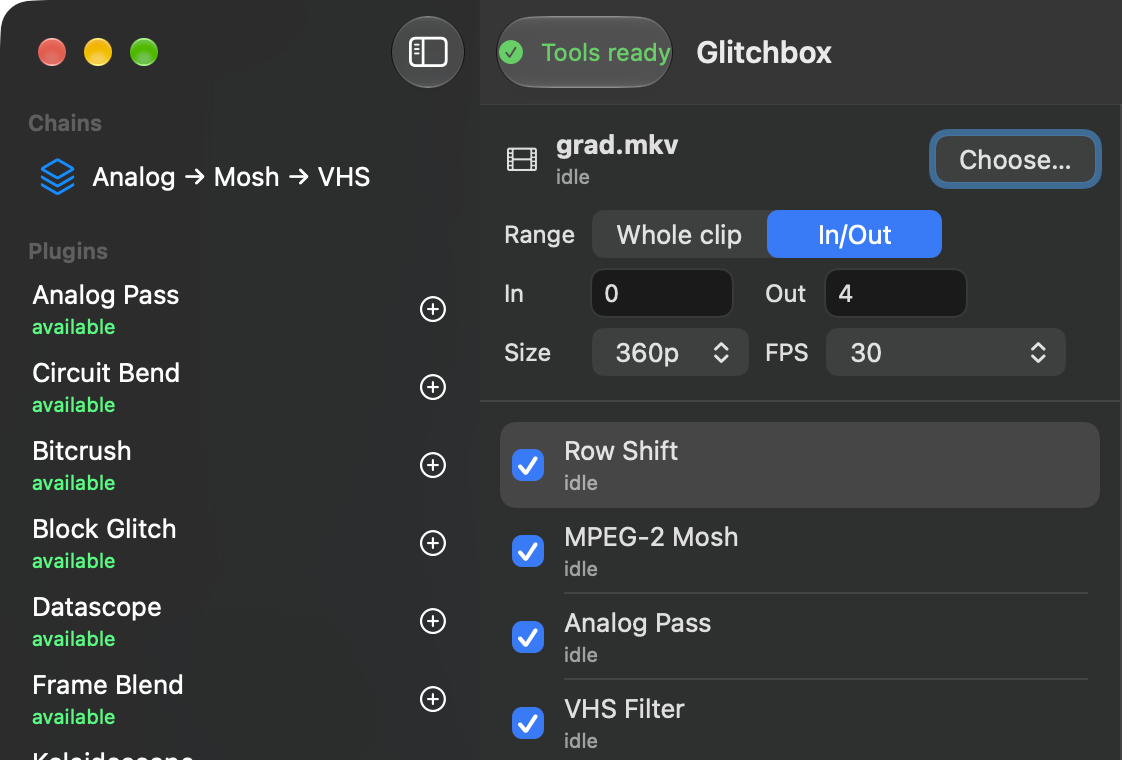
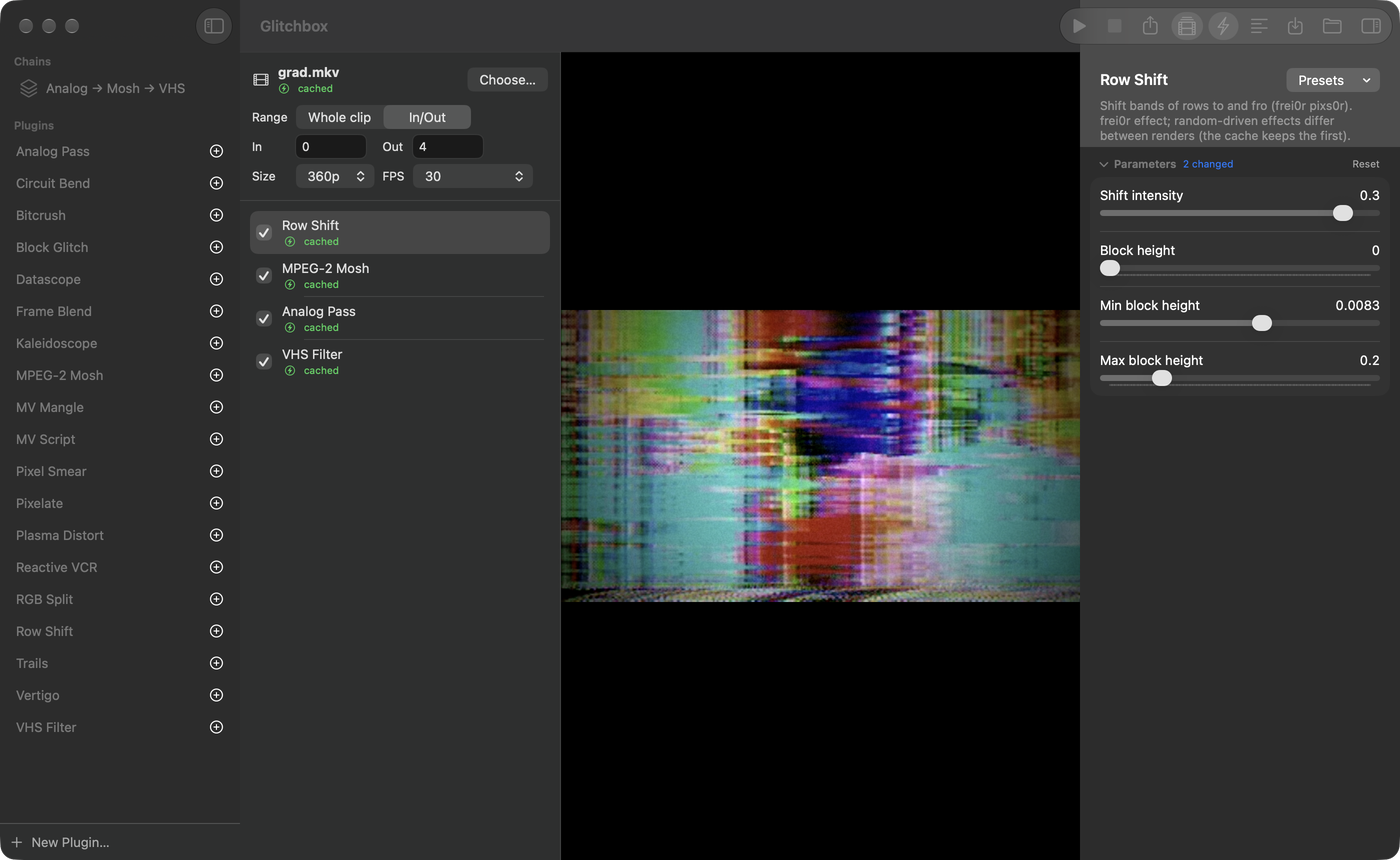
app: declutter (status only on failure, no 'available' labels, log panel behind a toggle), readable inspector, auto-render persists and renders on launch; site: full-width rendered app screenshot

diff --git a/app/Glitchbox/Views/ParamControl.swift b/app/Glitchbox/Views/ParamControl.swift
@@ -45,29 +45,46 @@ struct ParamControl: View {
         onChange(spec.clamp(isInt ? .int(Int(d.rounded())) : .float(d)))
     }
 
+    /// Ranged numbers: label and value on one line, a full-width slider under them.
+    /// Open-ended numbers: a field (and stepper for ints) beside the label.
     @ViewBuilder private func numericControl(isInt: Bool) -> some View {
-        LabeledContent(spec.label) {
-            HStack {
-                if let lo = spec.min, let hi = spec.max, lo < hi {
-                    slider(lo: lo, hi: hi, isInt: isInt)
+        if let lo = spec.min, let hi = spec.max, lo < hi {
+            VStack(alignment: .leading, spacing: 2) {
+                HStack {
+                    Text(spec.label)
+                    Spacer()
+                    numberField(isInt: isInt)
                 }
-                if isInt {
-                    TextField(spec.label, value: Binding(get: { Int(number) }, set: { set(Double($0), isInt: true) }),
-                              format: .number.grouping(.never))
-                        .labelsHidden()
-                        .frame(width: 80)
-                    if spec.min == nil || spec.max == nil {
+                slider(lo: lo, hi: hi, isInt: isInt)
+                    .labelsHidden()
+            }
+        } else {
+            LabeledContent(spec.label) {
+                HStack {
+                    numberField(isInt: isInt)
+                    if isInt {
                         Stepper(spec.label, value: Binding(get: { Int(number) }, set: { set(Double($0), isInt: true) }))
                             .labelsHidden()
                     }
-                } else {
-                    TextField(spec.label, value: Binding(get: { number }, set: { set($0, isInt: false) }),
-                              format: .number.precision(.significantDigits(1...6)))
-                        .labelsHidden()
-                        .frame(width: 80)
                 }
             }
         }
+    }
+
+    @ViewBuilder private func numberField(isInt: Bool) -> some View {
+        Group {
+            if isInt {
+                TextField(spec.label, value: Binding(get: { Int(number) }, set: { set(Double($0), isInt: true) }),
+                          format: .number.grouping(.never))
+            } else {
+                TextField(spec.label, value: Binding(get: { number }, set: { set($0, isInt: false) }),
+                          format: .number.precision(.significantDigits(1...6)))
+            }
+        }
+        .labelsHidden()
+        .multilineTextAlignment(.trailing)
+        .monospacedDigit()
+        .frame(width: 80)
     }
 
     @ViewBuilder private func slider(lo: Double, hi: Double, isInt: Bool) -> some View {

diff --git a/app/Glitchbox/Views/LayerInspector.swift b/app/Glitchbox/Views/LayerInspector.swift
@@ -11,15 +11,6 @@ struct LayerInspector: View {
             if let plugin = model.plugin(item.spec.plugin) {
                 let groups = ParamGroup.groups(of: plugin)
                 Form {
-                    Section {
-                        VStack(alignment: .leading, spacing: 4) {
-                            Text(plugin.name).font(.title3.bold())
-                            if !plugin.summary.isEmpty {
-                                Text(plugin.summary).font(.callout).foregroundStyle(.secondary)
-                            }
-                        }
-                        PluginPresetMenu(item: item, plugin: plugin)
-                    }
                     if case .unavailable(let why) = item.status {
                         Section { Label(why, systemImage: "exclamationmark.triangle").foregroundStyle(.orange) }
                     }
@@ -32,6 +23,9 @@ struct LayerInspector: View {
                     }
                 }
                 .formStyle(.grouped)
+                // The Form stays the inspector's root: wrapped in a stack, macOS 27's split view
+                // takes its full content height and shifts every column off-screen.
+                .safeAreaInset(edge: .top, spacing: 0) { header(plugin: plugin, item: item) }
             } else {
                 ContentUnavailableView("Missing Plugin", systemImage: "puzzlepiece.extension",
                                        description: Text("No valid plugin '\(item.spec.plugin)' in plugins/."))
@@ -39,6 +33,27 @@ struct LayerInspector: View {
         } else {
             ContentUnavailableView("No Layer Selected", systemImage: "slider.horizontal.3")
         }
+    }
+
+    /// Plugin name and Presets menu, with the summary underneath.
+    private func header(plugin: PluginManifest, item: LayerItem) -> some View {
+        VStack(alignment: .leading, spacing: 6) {
+            HStack(alignment: .firstTextBaseline) {
+                Text(plugin.name).font(.title3.bold())
+                Spacer()
+                PluginPresetMenu(item: item, plugin: plugin)
+            }
+            if !plugin.summary.isEmpty {
+                Text(plugin.summary)
+                    .font(.callout)
+                    .foregroundStyle(.secondary)
+            }
+        }
+        .frame(maxWidth: .infinity, alignment: .leading)
+        .padding(.horizontal, 20)
+        .padding(.top, 16)
+        .padding(.bottom, 4)
+        .background(.background)
     }
 
     /// Plugins with many sections start with only the first one open.

diff --git a/app/GlitchboxKit/Sources/GlitchboxKit/Model/SessionState.swift b/app/GlitchboxKit/Sources/GlitchboxKit/Model/SessionState.swift
@@ -1,4 +1,5 @@
-/// `<user library>/session.json`: the app's last source, render controls, and stack.
+/// `<user library>/session.json`: the app's last source, render controls, stack, and
+/// whether auto-render was on.
 ///
 /// Schema 1 stored a Preview/Full `mode` plus `previewSettings`; decoding migrates it:
 /// preview becomes an in/out range at the preview height, full becomes the whole clip at
@@ -10,14 +11,16 @@ public struct SessionState: Codable, Sendable {
     public var source: String?
     public var render: RenderOptions
     public var layers: [LayerSpec]
+    /// Absent in older sessions, which read as off.
+    public var autoRender: Bool
 
-    public init(source: String?, render: RenderOptions, layers: [LayerSpec]) {
+    public init(source: String?, render: RenderOptions, layers: [LayerSpec], autoRender: Bool = false) {
         schema = Self.schemaVersion
-        self.source = source; self.render = render; self.layers = layers
+        self.source = source; self.render = render; self.layers = layers; self.autoRender = autoRender
     }
 
     private enum CodingKeys: String, CodingKey {
-        case schema, source, render, layers
+        case schema, source, render, layers, autoRender
         case mode, previewSettings
     }
 
@@ -34,6 +37,7 @@ public struct SessionState: Codable, Sendable {
         let c = try decoder.container(keyedBy: CodingKeys.self)
         source = try c.decodeIfPresent(String.self, forKey: .source)
         layers = try c.decode([LayerSpec].self, forKey: .layers)
+        autoRender = try c.decodeIfPresent(Bool.self, forKey: .autoRender) ?? false
         schema = Self.schemaVersion
         if let render = try c.decodeIfPresent(RenderOptions.self, forKey: .render) {
             self.render = render
@@ -55,5 +59,6 @@ public struct SessionState: Codable, Sendable {
         try c.encodeIfPresent(source, forKey: .source)
         try c.encode(render, forKey: .render)
         try c.encode(layers, forKey: .layers)
+        try c.encode(autoRender, forKey: .autoRender)
     }
 }

diff --git a/site/assets/site.css b/site/assets/site.css
@@ -200,13 +200,7 @@ h3 {
 
 /* How a chain works */
 
-#chains {
-  display: grid;
-  grid-template-columns: minmax(0, 6fr) minmax(0, 5fr);
-  gap: 0 clamp(2rem, 5vw, 5rem);
-  align-items: start;
-}
-#chains h2 { grid-column: 1 / -1; }
+#chains { display: grid; grid-template-columns: minmax(0, 1fr); }
 .chains-text { max-width: 38rem; color: var(--ash); }
 .chains-text p:first-child { color: var(--bone); }
 
@@ -225,8 +219,8 @@ h3 {
 .layer-note { color: var(--ash); padding-inline: 0.25rem; }
 .layer-strip > figcaption { margin-top: 1rem; color: var(--ash); font-size: 0.9375rem; }
 
-.app-shot { margin: 0; grid-column: 2; grid-row: 2; }
-.app-shot img { border-radius: 10px 0 0 0; box-shadow: 0 1.2rem 2.5rem rgb(5 8 41 / 0.45); }
+.app-shot { margin: clamp(2.5rem, 5vw, 4rem) 0 0; }
+.app-shot img { filter: drop-shadow(0 1.2rem 2.5rem rgb(5 8 41 / 0.45)); }
 .app-shot figcaption { margin-top: 0.75rem; color: var(--ash); font-size: 0.9375rem; }
 
 /* Demo reel */
@@ -305,8 +299,7 @@ pre .c { color: var(--ash); }
 
 @media (max-width: 900px) {
   .hero { grid-template-columns: minmax(0, 1fr); }
-  #chains { grid-template-columns: minmax(0, 1fr); }
-  .app-shot { grid-column: 1; grid-row: auto; margin-top: 2.5rem; max-width: 36rem; }
+  .app-shot img { filter: drop-shadow(0 0.6rem 1.25rem rgb(5 8 41 / 0.45)); }
   .layer-strip ol { grid-template-columns: repeat(3, minmax(0, 1fr)); row-gap: 1.25rem; }
 }
 

diff --git a/app/Glitchbox/Views/MainView.swift b/app/Glitchbox/Views/MainView.swift
@@ -6,6 +6,7 @@ struct MainView: View {
     @Environment(\.openWindow) private var openWindow
     @State private var showInspector = true
     @State private var savingChain = false
+    @AppStorage(LogPanel.visibleKey) private var showLog = false
 
     var body: some View {
         @Bindable var model = model
@@ -51,8 +52,10 @@ struct MainView: View {
     @ToolbarContentBuilder
     private var toolbar: some ToolbarContent {
         @Bindable var model = model
-        ToolbarItemGroup(placement: .navigation) {
-            EnvStatusView()
+        if model.environment == nil {
+            ToolbarItem(placement: .navigation) {
+                EnvStatusView()
+            }
         }
         ToolbarItemGroup(placement: .primaryAction) {
             Button("Render", systemImage: "play.fill") { model.render() }
@@ -74,6 +77,8 @@ struct MainView: View {
                 .help("Play the final output instead of the selected layer")
             Toggle("Auto-render", systemImage: "bolt", isOn: $model.autoRender)
                 .help("Re-render automatically after edits")
+            Toggle("Log", systemImage: "text.alignleft", isOn: $showLog)
+                .help("Show the render log under the player")
             Button("Save Chain", systemImage: "square.and.arrow.down") { savingChain = true }
                 .keyboardShortcut("s")
                 .disabled(model.stack.isEmpty)

diff --git a/app/Glitchbox/Model/StudioModel.swift b/app/Glitchbox/Model/StudioModel.swift
@@ -25,7 +25,7 @@ final class StudioModel {
     private(set) var stack: [LayerItem] = []
     var selection: LayerItem.ID? { didSet { if selection != oldValue { selectionChanged() } } }
     var viewFinal = true { didSet { if viewFinal != oldValue { updatePlayer() } } }
-    var autoRender = false
+    var autoRender = false { didSet { if autoRender != oldValue { scheduleSave() } } }
     var notices: [String] = []
 
     private(set) var sourceStatus: LayerStatus = .idle
@@ -625,7 +625,7 @@ final class StudioModel {
     }
 
     func saveSession() {
-        let state = SessionState(source: source?.path, render: renderOptions, layers: stack.map(\.spec))
+        let state = SessionState(source: source?.path, render: renderOptions, layers: stack.map(\.spec), autoRender: autoRender)
         do { try Workspace.write(state, to: sessionURL) } catch { notices.append("session: \(error.localizedDescription)") }
     }
 
@@ -637,5 +637,8 @@ final class StudioModel {
         stack = state.layers.map { LayerItem(spec: $0, status: baseStatus($0)) }
         selection = stack.first?.id
         reresolveStack()
+        autoRender = state.autoRender
+        // With auto-render on, reopening shows the last result (a cache hit when it's still cached).
+        if autoRender, canRender, !stack.isEmpty { render() }
     }
 }

diff --git a/app/GlitchboxKit/Tests/GlitchboxKitTests/SessionStateTests.swift b/app/GlitchboxKit/Tests/GlitchboxKitTests/SessionStateTests.swift
@@ -39,7 +39,7 @@ struct SessionStateTests {
 
     @Test func roundTripsAsSchema2() throws {
         let original = SessionState(source: nil, render: RenderOptions(range: .whole, fps: .fps29_97),
-                                    layers: [LayerSpec(plugin: "x", enabled: true, params: [:])])
+                                    layers: [LayerSpec(plugin: "x", enabled: true, params: [:])], autoRender: true)
         let json = String(decoding: try Workspace.encoder().encode(original), as: UTF8.self)
         #expect(json.contains("\"schema\" : 2"))
         #expect(json.contains("\"30000/1001\""))
@@ -47,6 +47,11 @@ struct SessionStateTests {
         let back = try decode(json)
         #expect(back.render == original.render)
         #expect(back.layers == original.layers)
+        #expect(back.autoRender)
+    }
+
+    @Test func sessionsWithoutAutoRenderReadAsOff() throws {
+        #expect(try !decode(#"{"schema":2,"render":{"range":"whole","inPoint":0,"stillDuration":5},"layers":[]}"#).autoRender)
     }
 
     @Test func stillsIgnoreTheRange() {

diff --git a/app/Glitchbox/Views/LibrarySidebar.swift b/app/Glitchbox/Views/LibrarySidebar.swift
@@ -45,11 +45,15 @@ struct LibrarySidebar: View {
                 }
             }
         }
-        .safeAreaInset(edge: .bottom) {
-            Button("New Plugin…", systemImage: "plus") { model.showNewPlugin = true }
-                .buttonStyle(.borderless)
-                .frame(maxWidth: .infinity, alignment: .leading)
-                .padding(10)
+        .safeAreaInset(edge: .bottom, spacing: 0) {
+            VStack(spacing: 0) {
+                Divider()
+                Button("New Plugin…", systemImage: "plus") { model.showNewPlugin = true }
+                    .buttonStyle(.borderless)
+                    .frame(maxWidth: .infinity, alignment: .leading)
+                    .padding(10)
+            }
+            .background(.bar)
         }
         .confirmationDialog("Replace current stack?", isPresented: Binding(get: { pendingChain != nil }, set: { if !$0 { pendingChain = nil } }),
                             presenting: pendingChain) { preset in

diff --git a/app/Glitchbox/Views/PluginLibraryRow.swift b/app/Glitchbox/Views/PluginLibraryRow.swift
@@ -10,7 +10,7 @@ struct PluginLibraryRow: View {
         HStack {
             VStack(alignment: .leading, spacing: 2) {
                 Text(plugin.name)
-                availability
+                unavailability
             }
             Spacer()
             Button("Add Layer", systemImage: "plus.circle") { model.addLayer(plugin: plugin.id) }
@@ -25,11 +25,10 @@ struct PluginLibraryRow: View {
         }
     }
 
-    @ViewBuilder private var availability: some View {
+    /// Shown only when the plugin can't run.
+    @ViewBuilder private var unavailability: some View {
         if let missing = model.missingTools(plugin) {
-            if missing.isEmpty {
-                Text("available").font(.caption).foregroundStyle(.green)
-            } else {
+            if !missing.isEmpty {
                 Text("missing: \(missing.joined(separator: ", "))").font(.caption).foregroundStyle(.orange)
             }
         } else {

diff --git a/site/index.html b/site/index.html
@@ -106,8 +106,8 @@
   </figure>
 
   <figure class="app-shot">
-    <img src="assets/app/glitchbox-stack.png" width="1122" height="760" alt="The Glitchbox window: a plugin library on the left, and a source clip with Row Shift, MPEG-2 Mosh, Analog Pass, and VHS Filter stacked in the layer list." loading="lazy">
-    <figcaption>The same stack in the app, before rendering.</figcaption>
+    <img src="assets/app/glitchbox-stack.png" width="1400" height="860" alt="The Glitchbox window: the plugin library on the left, the source clip with Row Shift, MPEG-2 Mosh, Analog Pass, and VHS Filter stacked and rendered, the moshed result playing in the viewer, and Row Shift's parameters in the inspector." loading="lazy">
+    <figcaption>The same stack in the app, rendered.</figcaption>
   </figure>
 </section>
 

diff --git a/app/Glitchbox/Views/EnvStatusView.swift b/app/Glitchbox/Views/EnvStatusView.swift
@@ -1,16 +1,13 @@
 import SwiftUI
 
+/// Toolbar status shown only when the bundled toolchain can't be loaded.
 struct EnvStatusView: View {
     @Environment(StudioModel.self) private var model
 
     var body: some View {
         switch model.envState {
-        case .ready(let env):
-            Label("Tools ready", systemImage: "checkmark.circle.fill")
-                .foregroundStyle(.green)
-                .font(.callout)
-                .labelStyle(.titleAndIcon)
-                .help("Toolchain \(env.digest.prefix(12)) at \(model.toolchainContents.path)")
+        case .ready:
+            EmptyView()
         case .failed(let message):
             HStack(spacing: 6) {
                 Label("Toolchain unavailable", systemImage: "xmark.octagon.fill")

diff --git a/app/Glitchbox/Views/ViewerView.swift b/app/Glitchbox/Views/ViewerView.swift
@@ -2,6 +2,7 @@ import SwiftUI
 
 struct ViewerView: View {
     @Environment(StudioModel.self) private var model
+    @AppStorage(LogPanel.visibleKey) private var showLog = false
 
     var body: some View {
         VStack(spacing: 0) {
@@ -24,9 +25,11 @@ struct ViewerView: View {
                 }
             }
             .frame(maxWidth: .infinity, minHeight: 240, maxHeight: .infinity)
-            Divider()
-            LogPanel()
-                .frame(height: 200)
+            if showLog {
+                Divider()
+                LogPanel()
+                    .frame(height: 200)
+            }
         }
         .onChange(of: model.playerItemURL, initial: true) { model.player.load(model.playerItemURL) }
     }
